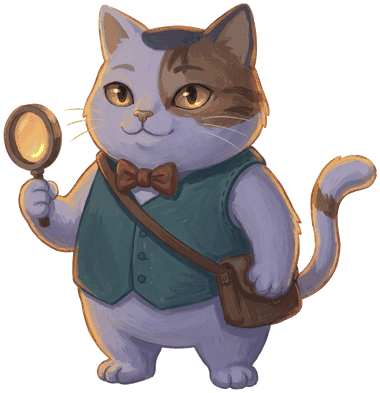
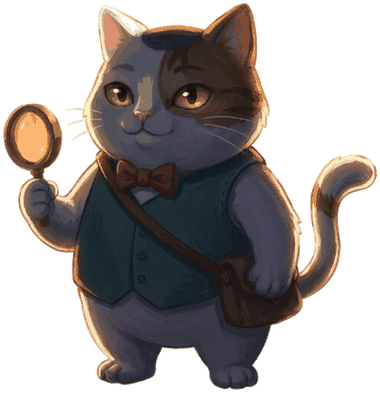
전체 화면 버튼이 취소선으로 못 쓰는 버튼처럼 보이던 것 고치고, 표지 망고를 어두운 판으로 교체

diff --git a/mango/index.html b/mango/index.html
@@ -100,6 +100,7 @@
   <g id="i-hook"><path d="M8 5 v6 M20 5 v6" stroke="#4a3428" stroke-width="2"/><circle cx="8" cy="6" r="2" fill="#4a3428"/><circle cx="20" cy="6" r="2" fill="#4a3428"/><path d="M8 11 q0 3 3 3 M20 11 q0 3 -3 3" stroke="#4a3428" stroke-width="2" fill="none" stroke-linecap="round"/></g>
   <g id="i-sink"><rect x="5" y="12" width="18" height="10" rx="2" fill="#dcd5c6" stroke="#4a3428" stroke-width="1.8"/><ellipse cx="14" cy="9" rx="6" ry="2.5" fill="#fff" stroke="#4a3428" stroke-width="1.4"/></g>
   <g id="i-stain"><path d="M8 6 q6 -3 12 0 v16 h-12z" fill="#f4c6cf" stroke="#4a3428" stroke-width="1.8"/><ellipse cx="15" cy="15" rx="4" ry="3" fill="#a8744a"/></g>
+  <g id="i-expand" fill="none" stroke="#4a3428" stroke-width="2.4" stroke-linecap="round" stroke-linejoin="round"><path d="M11 5 H5 V11"/><path d="M17 5 H23 V11"/><path d="M11 23 H5 V17"/><path d="M17 23 H23 V17"/><path d="M5 5 L11 11"/><path d="M23 5 L17 11"/><path d="M5 23 L11 17"/><path d="M23 23 L17 17"/></g>
   <g id="i-lock"><rect x="7" y="12" width="14" height="11" rx="2" fill="#bdb6ab" stroke="#4a3428" stroke-width="1.8"/><path d="M10 12 V9 a4 4 0 0 1 8 0 v3" stroke="#4a3428" stroke-width="1.8" fill="none"/></g>
   <g id="i-talk"><path d="M4 6 h20 v12 h-11 l-5 4 v-4 h-4z" fill="#fff8e7" stroke="#4a3428" stroke-width="1.8"/><path d="M8 11 h12 M8 14 h8" stroke="#4a3428" stroke-width="1.5"/></g>
 </defs></svg>
@@ -122,12 +123,12 @@
         <div><b>하던 사건이 있어요</b> <small id="resume-when"></small></div>
         <div class="row"><button id="btn-resume" class="mini go">이어하기</button><button id="btn-fresh" class="mini">처음부터 새로</button></div>
       </div>
-      <div class="snd"><button id="tg-sfx" aria-pressed="true">🔔 효과음</button><button id="tg-bgm" aria-pressed="true">🎵 음악</button><button id="tg-full" aria-pressed="false" hidden>⛶ 전체 화면</button><button id="btn-code">🔑 백업 코드</button></div>
+      <div class="snd"><button id="tg-sfx" aria-pressed="true">🔔 효과음</button><button id="tg-bgm" aria-pressed="true">🎵 음악</button><button id="tg-full" class="wide" hidden><svg class="bi" viewBox="0 0 28 28"><use href="#i-expand"></use></svg> 전체 화면</button><button id="btn-code">🔑 백업 코드</button></div>
       <div class="codebox" id="code-box" hidden>
         <textarea rows="2" spellcheck="false" placeholder="다른 기기의 코드를 여기에 붙여 넣으세요"></textarea>
         <button id="btn-code-use" class="mini">이 코드로 불러오기</button>
       </div>
-      <p class="muted" style="margin:0;font-size:11px">소리를 켜고 하시면 더 재미있어요 · 가로 화면 전용<br><span id="full-tip" hidden>화면을 넓게 쓰려면 <b>⛶ 전체 화면</b>을 먼저 눌러 주세요</span></p>
+      <p class="muted" style="margin:0;font-size:11px">소리를 켜고 하시면 더 재미있어요 · 가로 화면 전용<br><span id="full-tip" hidden>화면을 넓게 쓰려면 <b>전체 화면</b>을 먼저 눌러 주세요 — 버튼이 가려지지 않아요</span></p>
     </div>
   </section>
 

diff --git a/mango/js/game.js b/mango/js/game.js
@@ -146,8 +146,9 @@ function syncFullUI(){
   if(!b)return;
   var can=!!(document.documentElement.requestFullscreen||document.documentElement.webkitRequestFullscreen);
   b.hidden=!can; if(t)t.hidden=!can||isFull();
-  b.setAttribute('aria-pressed',isFull()?'true':'false');
-  b.textContent=isFull()?'⛶ 전체 화면 끄기':'⛶ 전체 화면';
+  /* 전체 화면은 켜고 끄는 상태가 아니라 동작이다. aria-pressed 를 주면
+     .snd 규칙이 「눌리지 않음」으로 보고 흐리게+취소선을 그어, 못 쓰는 버튼처럼 보인다. */
+  b.innerHTML='<svg class="bi" viewBox="0 0 28 28"><use href="#i-expand"></use></svg> '+(isFull()?'전체 화면 끄기':'전체 화면');
 }
 
 /* ================= 수첩 ================= */

diff --git a/mango/css/style.css b/mango/css/style.css
@@ -174,6 +174,8 @@
   .snd{display:flex;gap:6px;justify-content:flex-end}
   .snd button{border:2px solid var(--line);border-radius:999px;background:var(--panel);padding:2px 10px;font-size:12px;font-weight:700}
   .snd button[aria-pressed="false"]{opacity:.45;text-decoration:line-through}
+  .snd button.wide{background:var(--must);border-color:var(--brown);padding-left:12px;padding-right:12px}
+  .snd .bi{width:13px;height:13px;vertical-align:-2px;margin-right:1px}
   .lenslabel.new-hot{animation:pop .18s}
   @keyframes pop{from{transform:translateX(-50%) scale(.85)}to{transform:translateX(-50%) scale(1)}}
   @media (orientation:portrait){#rotate{display:flex}}
